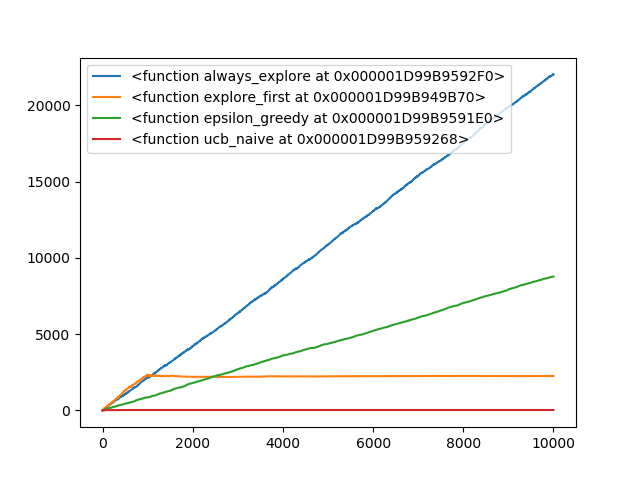
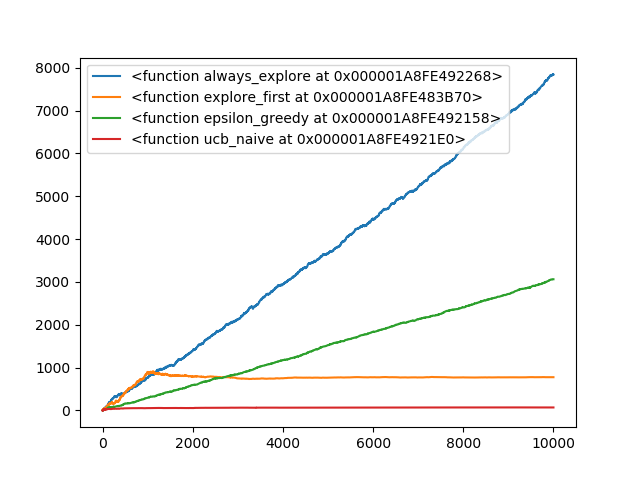
adding linucb

diff --git a/algorithms/linucb.py b/algorithms/linucb.py
@@ -1,0 +1,66 @@
+import numpy as np
+from math import sqrt
+import pandas as pd
+
+
+def return_reward(arm, feature_vector):
+    if arm==0:
+        if feature_vector[0]==0 and feature_vector[1]==0:
+            return np.random.normal(loc=4, scale=1.0, size=1)
+        elif feature_vector[0]==0 and feature_vector[1]==1:
+            return np.random.normal(loc=3, scale=1.0, size=1)
+        elif feature_vector[0]==1 and feature_vector[1]==0:
+            return np.random.normal(loc=2, scale=1.0, size=1)
+        elif feature_vector[0]==1 and feature_vector[1]==1:
+            return np.random.normal(loc=1, scale=1.0, size=1)
+    else:
+        if feature_vector[0]==0 and feature_vector[1]==0:
+            return np.random.normal(loc=3, scale=1, size=1)
+        elif feature_vector[0]==0 and feature_vector[1]==1:
+            return np.random.normal(loc=2.8, scale=1, size=1)
+        elif feature_vector[0]==1 and feature_vector[1]==0:
+            return np.random.normal(loc=5, scale=1, size=1)
+        elif feature_vector[0]==1 and feature_vector[1]==1:
+            return np.random.normal(loc=6, scale=1, size=1)
+    
+    
+if __name__ == '__main__':
+
+    gender_vars = [1, 0]
+    ethnicity_vars = [0, 1]
+    
+    alpha = 1 # Some parameter
+    K = 2 # Num arms
+    d = 2 # Num features
+    num_rounds = 10000
+    A = [np.identity(d) for i in range(K)] # Identity matrix
+    b = [np.zeros(d) for i in range(K)]
+    X = []
+    arm_list = []
+    reward_list = []
+    for round in range(1, num_rounds+1):
+        
+        # Observe a feature
+        gender = np.random.choice(gender_vars)
+        ethnicity = np.random.choice(ethnicity_vars)
+        feature_vec = [gender, ethnicity]
+        p = []
+        for i in range(K):
+            theta = np.dot(np.linalg.inv(A[i]), b[i])
+            pta = np.dot(theta, feature_vec)+alpha*sqrt(np.dot(np.dot(
+                feature_vec, np.linalg.inv(A[i])), feature_vec))
+            p.append(pta)
+        chosen_arm = np.random.choice(np.argwhere(p==np.amax(p)).flatten().tolist())
+        arm_list.append(chosen_arm)
+        X.append(feature_vec)
+        # Pull arm
+        reward = return_reward(chosen_arm, feature_vec)[0]
+        reward_list.append(reward)
+        A[chosen_arm] = np.add(A[chosen_arm], np.outer(feature_vec, feature_vec))
+        b[chosen_arm] = np.add(b[chosen_arm], np.array(feature_vec)*reward)
+        
+    data = pd.DataFrame(X, columns=['gender', 'ethnicity'])
+    data['reward'] = reward_list
+    data['chosen_arm'] = arm_list
+    print(data.groupby(['gender', 'ethnicity', 'chosen_arm'], as_index=False)['reward'].mean())
+    print(data.groupby(['gender', 'ethnicity', 'chosen_arm'], as_index=False).count())

diff --git a/distributions.py b/distributions.py
@@ -4,9 +4,9 @@ import random
 num_obs = 10000
 
 random.seed(8153003)
-control = np.random.normal(loc=0.0, scale=1.0, size=num_obs)
-trt1 = np.random.normal(loc=1.0, scale=1.0, size=num_obs)
+control = np.random.normal(loc=1, scale=1.0, size=num_obs)
+trt1 = np.random.normal(loc=1.5, scale=1.0, size=num_obs)
 trt2 = np.random.normal(loc=2.0, scale=1.0, size=num_obs)
-trt3 = np.random.normal(loc=4.0, scale=2.0, size=num_obs)
+trt3 = np.random.normal(loc=2.5, scale=2.0, size=num_obs)
 
 trt_dist_list = [control, trt1, trt2, trt3]

diff --git a/regret_chart.py b/regret_chart.py
@@ -45,4 +45,3 @@ if __name__ == '__main__':
     bandit_list = [always_explore_bandit, explore_first_bandit,
                    epsilon_greedy_bandit, ucb_naive_bandit]
     compare_bandits(bandit_list)
-
